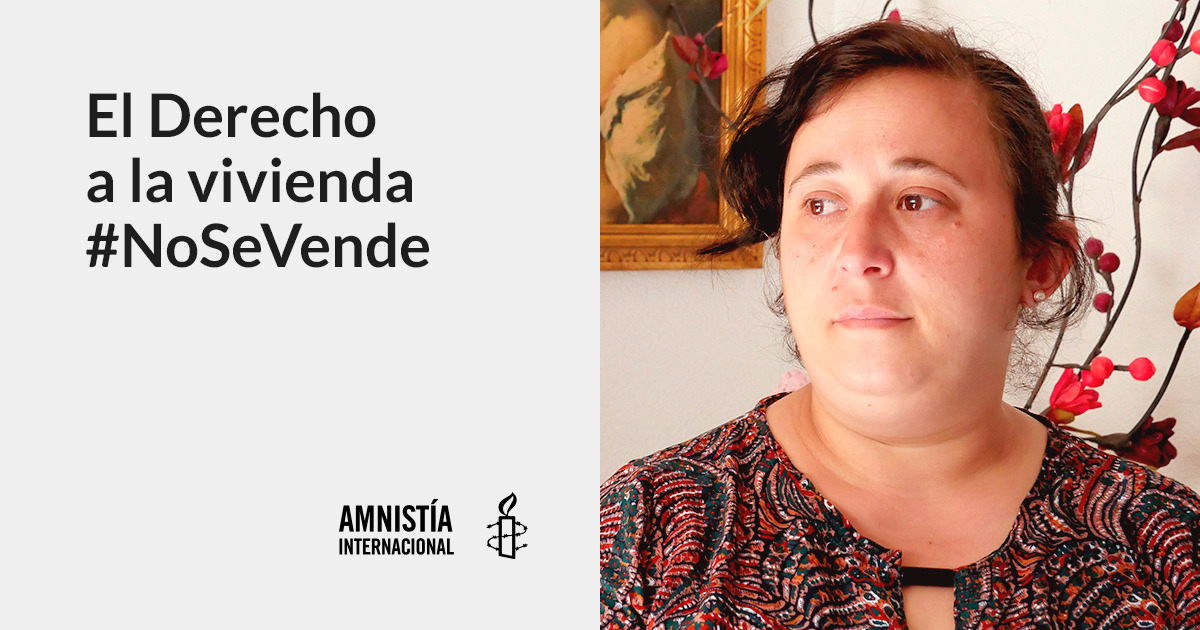
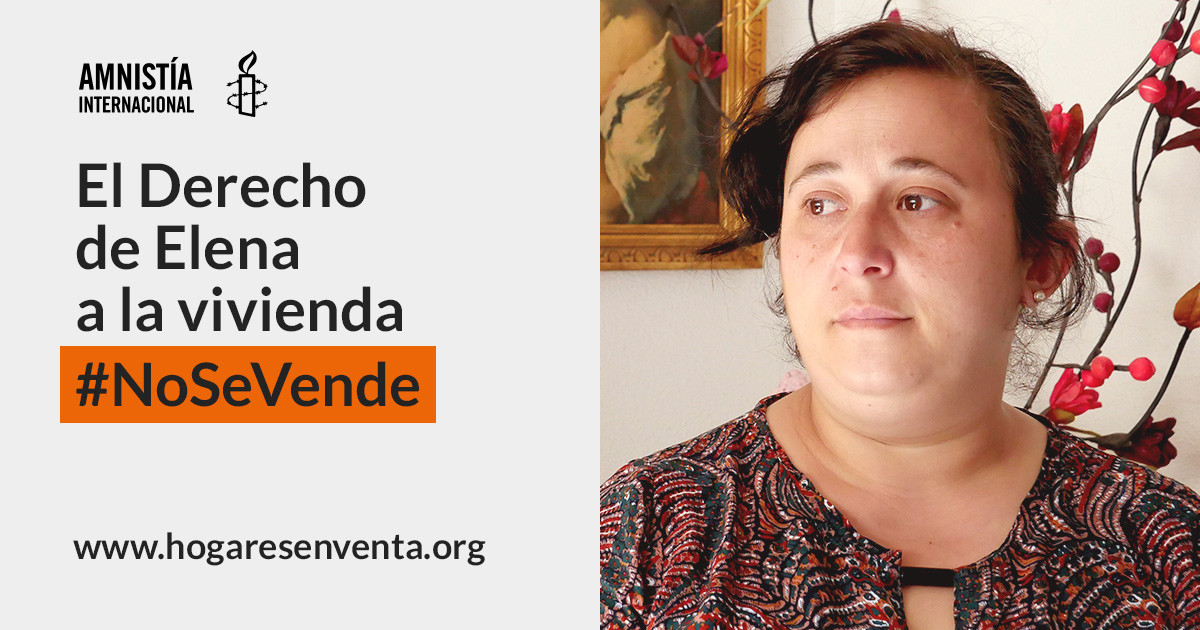
Contenidos Redes Sociales
Textos, descripciones e imágenes

diff --git a/lucia.php b/lucia.php
@@ -6,7 +6,7 @@
 	<base href="<?php echo URL_SITE; ?>">
 	<meta name="viewport" content="user-scalable=no, width=device-width, initial-scale=1.0" />
 	<title>El Derecho a la Vivienda #NoSeVende - Amnistía Internacional</title>
-    <meta name="description" content="Firma para que se respete el  derecho a una vivienda de Lucía. Su vivienda social fue vendida a un fondo privado y ahora no puede pagarla. ">
+    <meta name="description" content="Firma para que se proteja el  derecho de Lucía a una vivienda. Su vivienda social fue vendida a un fondo de inversión y ahora no puede pagarla.">
 	<link rel="canonical" href="<?php echo URL_SITE; ?>lucia/" />
     <link rel="image_src" href="<?php echo URL_SITE; ?>images/compartir-tw-caso-lucia.png" />
     <link rel="icon" href="favicon.ico?v=4" type="image/x-icon" />
@@ -18,7 +18,7 @@
     <meta property="og:type" content="website" />
     <meta property="og:locale" content="es_ES" />
     <meta property="og:title" content="Su derecho #NoSeVende – Amnistía Internacional" />
-    <meta property="og:description" content="Firma para que se respete el  derecho a una vivienda de Lucía. Su vivienda social fue vendida a un fondo privado y ahora no puede pagarla." />
+    <meta property="og:description" content="Firma para que se proteja el  derecho de Lucía a una vivienda. Su vivienda social fue vendida a un fondo de inversión y ahora no puede pagarla." />
     <meta property="og:site_name" content="Amnistía Internacional" />
     <meta property="og:image" content="<?php echo URL_SITE; ?>images/compartir-fb-caso-lucia.jpg" />
     <meta property="og:image:width" content="1200" />
@@ -30,7 +30,7 @@
     <meta name="twitter:site" content="@amnistiaespana">
     <meta name="twitter:creator" content="@amnistiaespana">
     <meta name="twitter:title" content="Su derecho #NoSeVende – Amnistía Internacional" />
-    <meta name="twitter:description" content="Firma para que se respete el  derecho a una vivienda de Lucía. Su vivienda social fue vendida a un fondo privado y ahora no puede pagarla." />
+    <meta name="twitter:description" content="Firma para que se proteja el  derecho de Lucía a una vivienda. Su vivienda social fue vendida a un fondo de inversión y ahora no puede pagarla." />
     <meta name="twitter:image" content="<?php echo URL_SITE; ?>images/compartir-tw-caso-lucia.png" />
     <meta name="twitter:image:width" content="1024" />
     <meta name="twitter:image:height" content="512" />
@@ -108,13 +108,13 @@ if($isMobile) {
 			<div class="rrss"><!--redes header-->
 				<ul class="clearfix">
 					<li><b>Comparte:</b></li>
-					<li><a data-e_c="hogaresenventa" data-e_a="lucía comp TW" data-e_l="lucía comp TW" data-shareurl="<?php echo SL_LUCIA_TW; ?>" data-texto="El derecho a la vivienda de Lucía #NoSeVende. Conoce su historia y firma para que le den una solución" class="fa fa-twitter twitter-share send-piwik-event" title="Compartir en Twitter" href="#"></a></li>
+					<li><a data-e_c="hogaresenventa" data-e_a="lucía comp TW" data-e_l="lucía comp TW" data-shareurl="<?php echo SL_LUCIA_TW; ?>" data-texto="El derecho a la vivienda de Lucía #NoSeVende. Conoce su historia y firma para que no la echen de su casa" class="fa fa-twitter twitter-share send-piwik-event" title="Compartir en Twitter" href="#"></a></li>
 
-					<li><a data-e_c="hogaresenventa" data-e_a="lucía comp FB" data-e_l="lucía comp FB" data-shareurl="<?php echo URL_SITE . 'lucia/' . TRACK_FB_UTM; ?>" data-title="Su derecho #NoSeVende – Amnistía Internacional" data-texto="Firma para que se respete el  derecho a una vivienda de Lucía. Su vivienda social fue vendida a un fondo privado y ahora no puede pagarla." data-imagen="<?php echo URL_SITE; ?>images/compartir-fb-caso-lucia.jpg" data-caption="Amnistía Internacional" class="fa fa-facebook facebook-share send-piwik-event" href="#" title="Compartir en Facebook"></a></li>
+					<li><a data-e_c="hogaresenventa" data-e_a="lucía comp FB" data-e_l="lucía comp FB" data-shareurl="<?php echo URL_SITE . 'lucia/' . TRACK_FB_UTM; ?>" data-title="Su derecho #NoSeVende – Amnistía Internacional" data-texto="Firma para que se proteja el  derecho de Lucía a una vivienda. Su vivienda social fue vendida a un fondo de inversión y ahora no puede pagarla." data-imagen="<?php echo URL_SITE; ?>images/compartir-fb-caso-lucia.jpg" data-caption="Amnistía Internacional" class="fa fa-facebook facebook-share send-piwik-event" href="#" title="Compartir en Facebook"></a></li>
 <?php
 if($isMobile) {
 ?>
-                	<!--<li><a data-e_c="hogaresenventa" data-e_a="lucía comp WH" data-e_l="lucía comp WH" class="fa fa-whatsapp send-piwik-event" title="Compartir en Whatsapp" data-href="<?php echo URL_SITE . TRACK_WH_UTM; ?>" data-action="share/whatsapp/share" href="whatsapp://send?text=<?=urlencode('El derecho a la vivienda de Lucía #NoSeVende. Conoce su historia y firma para que le den una solución ' . SL_LUCIA_WH )?>"></a></li>-->
+                	<li><a data-e_c="hogaresenventa" data-e_a="lucía comp WH" data-e_l="lucía comp WH" class="fa fa-whatsapp send-piwik-event" title="Compartir en Whatsapp" data-href="<?php echo SL_LUCIA_WH; ?>" data-action="share/whatsapp/share" href="whatsapp://send?text=<?=urlencode('El derecho a la vivienda de Lucía #NoSeVende. Conoce su historia y firma para que no la echen de su casa ' . SL_LUCIA_WH )?>"></a></li>
 <?php
 }
 ?>
@@ -161,13 +161,13 @@ if($isMobile) {
 
 						<ul class="rrss-interior clearfix">
 							<li><b>Comparte:</b></li><!--redes caso interior-->
-							<li><a data-e_c="hogaresenventa" data-e_a="lucía comp TW" data-e_l="lucía comp TW" data-shareurl="<?php echo SL_LUCIA_TW; ?>" data-texto="El derecho a la vivienda de Lucía #NoSeVende. Conoce su historia y firma para que le den una solución" class="fa fa-twitter twitter-share send-piwik-event" title="Compartir en Twitter" href="#"></a></li>
+							<li><a data-e_c="hogaresenventa" data-e_a="lucía comp TW" data-e_l="lucía comp TW" data-shareurl="<?php echo SL_LUCIA_TW; ?>" data-texto="El derecho a la vivienda de Lucía #NoSeVende. Conoce su historia y firma para que no la echen de su casa" class="fa fa-twitter twitter-share send-piwik-event" title="Compartir en Twitter" href="#"></a></li>
 
-							<li><a data-e_c="hogaresenventa" data-e_a="lucía comp FB" data-e_l="lucía comp FB" data-shareurl="<?php echo URL_SITE . 'lucia/' . TRACK_FB_UTM; ?>" data-title="Su derecho #NoSeVende – Amnistía Internacional" data-texto="Firma para que se respete el  derecho a una vivienda de Lucía. Su vivienda social fue vendida a un fondo privado y ahora no puede pagarla." data-imagen="<?php echo URL_SITE; ?>images/compartir-fb-caso-lucia.jpg" data-caption="Amnistía Internacional" class="fa fa-facebook facebook-share send-piwik-event" href="#" title="Compartir en Facebook"></a></li>
+							<li><a data-e_c="hogaresenventa" data-e_a="lucía comp FB" data-e_l="lucía comp FB" data-shareurl="<?php echo URL_SITE . 'lucia/' . TRACK_FB_UTM; ?>" data-title="Su derecho #NoSeVende – Amnistía Internacional" data-texto="Firma para que se proteja el  derecho de Lucía a una vivienda. Su vivienda social fue vendida a un fondo de inversión y ahora no puede pagarla." data-imagen="<?php echo URL_SITE; ?>images/compartir-fb-caso-lucia.jpg" data-caption="Amnistía Internacional" class="fa fa-facebook facebook-share send-piwik-event" href="#" title="Compartir en Facebook"></a></li>
 <?php
 if($isMobile) {
 ?>
-            				<!--<li><a data-e_c="hogaresenventa" data-e_a="lucía comp WH" data-e_l="lucía comp WH" class="fa fa-whatsapp send-piwik-event" title="Compartir en Whatsapp" data-href="<?php echo SL_ELENA_WH; ?>" data-action="share/whatsapp/share" href="whatsapp://send?text=<?=urlencode('El derecho a la vivienda de Lucía #NoSeVende. Conoce su historia y firma para que le den una solución '. SL_LUCIA_WH)?>"></a></li>-->
+            				<li><a data-e_c="hogaresenventa" data-e_a="lucía comp WH" data-e_l="lucía comp WH" class="fa fa-whatsapp send-piwik-event" title="Compartir en Whatsapp" data-href="<?php echo SL_LUCIA_WH; ?>" data-action="share/whatsapp/share" href="whatsapp://send?text=<?=urlencode('El derecho a la vivienda de Lucía #NoSeVende. Conoce su historia y firma para que no la echen de su casa '. SL_LUCIA_WH)?>"></a></li>
 <?php
 }
 ?>

diff --git a/gracias.php b/gracias.php
@@ -12,7 +12,7 @@ include_once ("includes/config.php");
 	<base href="<?php echo URL_SITE; ?>">
 	<meta name="viewport" content="user-scalable=no, width=device-width, initial-scale=1.0" />
 	<title>El Derecho a la Vivienda #NoSeVende - Amnistía Internaciona</title>
-    <meta name="description" content="En 2012 se vendieron en Madrid viviendas sociales con gente dentro a fondos de inversión. Firma para que ninguna familia pierda su hogar.">
+    <meta name="description" content="Entre 2011 y 2013 se vendieron en Madrid viviendas sociales habitadas a fondos de inversión. Firma para que ninguna familia pierda su hogar.">
 	<link rel="canonical" href="<?php echo URL_SITE; ?>gracias/" />
     <link rel="image_src" href="<?php echo URL_SITE; ?>images/compartir-tw.png" />
     <link rel="icon" href="favicon.ico?v=4" type="image/x-icon" />
@@ -24,7 +24,7 @@ include_once ("includes/config.php");
     <meta property="og:type" content="website" />
     <meta property="og:locale" content="es_ES" />
     <meta property="og:title" content="El Derecho a la Vivienda #NoSeVende" />
-    <meta property="og:description" content="En 2012 se vendieron en Madrid viviendas sociales con gente dentro a fondos de inversión. Firma para que ninguna familia pierda su hogar." />
+    <meta property="og:description" content="Entre 2011 y 2013 se vendieron en Madrid viviendas sociales habitadas a fondos de inversión. Firma para que ninguna familia pierda su hogar." />
     <meta property="og:site_name" content="Amnistía Internacional" />
     <meta property="og:image" content="<?php echo URL_SITE; ?>images/compartir-fb.png" />
     <meta property="og:image:width" content="1200" />
@@ -36,7 +36,7 @@ include_once ("includes/config.php");
     <meta name="twitter:site" content="@amnistiaespana">
     <meta name="twitter:creator" content="@amnistiaespana">
     <meta name="twitter:title" content="El Derecho a la Vivienda #NoSeVende" />
-    <meta name="twitter:description" content="En 2012 se vendieron en Madrid viviendas sociales con gente dentro a fondos de inversión. Firma para que ninguna familia pierda su hogar." />
+    <meta name="twitter:description" content="Entre 2011 y 2013 se vendieron en Madrid viviendas sociales habitadas a fondos de inversión. Firma para que ninguna familia pierda su hogar." />
     <meta name="twitter:image" content="<?php echo URL_SITE; ?>images/compartir-tw.png" />
     <meta name="twitter:image:width" content="1024" />
     <meta name="twitter:image:height" content="512" />
@@ -171,11 +171,11 @@ var google_remarketing_only = false;
 				<ul class="clearfix">
 					<li><b>Comparte:</b></li>
 					<li><a data-e_c="hogaresenventa" data-e_a="gracias comp TW" data-e_l="gracias comp TW" data-shareurl="<?php echo SL_HOME_TW; ?>" data-texto="El derecho a la vivienda #NoSeVende. Firma para que ninguna familia pierda su hogar" class="fa fa-twitter twitter-share send-piwik-event" title="Compartir en Twitter" href="#"></a></li>
-					<li><a data-e_c="hogaresenventa" data-e_a="gracias comp FB" data-e_l="gracias comp FB" data-shareurl="<?php echo URL_SITE . TRACK_FB_UTM; ?>" data-title="El Derecho a la Vivienda #NoSeVende" data-texto="En 2012 se vendieron en Madrid viviendas sociales con gente dentro a fondos de inversión. Firma para que ninguna familia pierda su hogar." data-imagen="<?php echo URL_SITE; ?>images/compartir-fb.png" data-caption="Amnistía Internacional" class="fa fa-facebook facebook-share send-piwik-event" href="#" title="Compartir en Facebook"></a></li>
+					<li><a data-e_c="hogaresenventa" data-e_a="gracias comp FB" data-e_l="gracias comp FB" data-shareurl="<?php echo URL_SITE . TRACK_FB_UTM; ?>" data-title="El Derecho a la Vivienda #NoSeVende" data-texto="Entre 2011 y 2013 se vendieron en Madrid viviendas sociales habitadas a fondos de inversión. Firma para que ninguna familia pierda su hogar." data-imagen="<?php echo URL_SITE; ?>images/compartir-fb.png" data-caption="Amnistía Internacional" class="fa fa-facebook facebook-share send-piwik-event" href="#" title="Compartir en Facebook"></a></li>
 <?php
 if($isMobile) {
 ?>
-                	<!--<li><a data-e_c="hogaresenventa" data-e_a="gracias comp WH" data-e_l="gracias comp WH" class="fa fa-whatsapp send-piwik-event" title="Compartir en Whatsapp" data-href="<?php echo SL_HOME_WH; ?>" data-action="share/whatsapp/share" href="whatsapp://send?text=<?=urlencode('El derecho a la vivienda #NoSeVende. Firma para que ninguna familia pierda su hogar ' . SL_HOME_WH)?>"></a></li>-->
+                	<li><a data-e_c="hogaresenventa" data-e_a="gracias comp WH" data-e_l="gracias comp WH" class="fa fa-whatsapp send-piwik-event" title="Compartir en Whatsapp" data-href="<?php echo SL_HOME_WH; ?>" data-action="share/whatsapp/share" href="whatsapp://send?text=<?=urlencode('El derecho a la vivienda #NoSeVende. Firma para que ninguna familia pierda su hogar ' . SL_HOME_WH)?>"></a></li>
 <?php
 }
 ?>
@@ -221,13 +221,13 @@ if($_GET['error_form'] == 1){
 
 								<a data-e_c="hogaresenventa" data-e_a="gracias comp TW" data-e_l="gracias comp TW" data-shareurl="<?php echo SL_HOME_TW; ?>" data-texto="El derecho a la vivienda #NoSeVende. Firma para que ninguna familia pierda su hogar" class="btn-big-general white-orange twitter-share send-piwik-event" title="Compartir en Twitter" href="#"><b>Compartir en Twitter</b></a>
 
-								<a data-e_c="hogaresenventa" data-e_a="gracias comp FB" data-e_l="gracias comp FB" data-shareurl="<?php echo URL_SITE . TRACK_FB_UTM; ?>" data-title="El Derecho a la Vivienda #NoSeVende" data-texto="En 2012 se vendieron en Madrid viviendas sociales con gente dentro a fondos de inversión. Firma para que ninguna familia pierda su hogar." data-imagen="<?php echo URL_SITE; ?>images/compartir-fb.png" data-caption="Amnistía Internacional" class="btn-big-general white-orange facebook-share send-piwik-event" href="#" title="Compartir en Facebook"><b>Compartir en Facebook</b></a>
+								<a data-e_c="hogaresenventa" data-e_a="gracias comp FB" data-e_l="gracias comp FB" data-shareurl="<?php echo URL_SITE . TRACK_FB_UTM; ?>" data-title="El Derecho a la Vivienda #NoSeVende" data-texto="Entre 2011 y 2013 se vendieron en Madrid viviendas sociales habitadas a fondos de inversión. Firma para que ninguna familia pierda su hogar." data-imagen="<?php echo URL_SITE; ?>images/compartir-fb.png" data-caption="Amnistía Internacional" class="btn-big-general white-orange facebook-share send-piwik-event" href="#" title="Compartir en Facebook"><b>Compartir en Facebook</b></a>
 
 
 <?php
 	if($isMobile) {
 ?>
-								<!--<a data-e_c="hogaresenventa" data-e_a="gracias comp WH" data-e_l="gracias comp WH" class="btn-big-general white-orange send-piwik-event" data-href="<?php echo SL_HOME_WH; ?>" data-action="share/whatsapp/share" href="whatsapp://send?text=<?=urlencode('El derecho a la vivienda #NoSeVende. Firma para que ninguna familia pierda su hogar ' . SL_HOME_WH)?>" title="Compartir en Whatsapp"><b>Compartir en Whatsapp</b></a>-->
+								<a data-e_c="hogaresenventa" data-e_a="gracias comp WH" data-e_l="gracias comp WH" class="btn-big-general white-orange send-piwik-event" data-href="<?php echo SL_HOME_WH; ?>" data-action="share/whatsapp/share" href="whatsapp://send?text=<?=urlencode('El derecho a la vivienda #NoSeVende. Firma para que ninguna familia pierda su hogar ' . SL_HOME_WH)?>" title="Compartir en Whatsapp"><b>Compartir en Whatsapp</b></a>
 
 <?php
 	}

diff --git a/elena.php b/elena.php
@@ -6,7 +6,7 @@
 	<base href="<?php echo URL_SITE; ?>">
 	<meta name="viewport" content="user-scalable=no, width=device-width, initial-scale=1.0" />
 	<title>El Derecho a la Vivienda #NoSeVende - Amnistía Internacional</title>
-    <meta name="description" content="Firma para que se respete el  derecho a una vivienda de Elena. Su vivienda social fue vendida a un fondo privado y la desahuciaron. ">
+    <meta name="description" content="Firma para que se proteja el  derecho de Elena a una vivienda. Su vivienda social fue vendida a un fondo de inversión y la desahuciaron.">
 	<link rel="canonical" href="<?php echo URL_SITE; ?>elena/" />
     <link rel="image_src" href="<?php echo URL_SITE; ?>images/compartir-tw-caso-elena.png" />
     <link rel="icon" href="favicon.ico?v=4" type="image/x-icon" />
@@ -18,7 +18,7 @@
     <meta property="og:type" content="website" />
     <meta property="og:locale" content="es_ES" />
     <meta property="og:title" content="Su derecho #NoSeVende – Amnistía Internacional" />
-    <meta property="og:description" content="Firma para que se respete el  derecho a una vivienda de Elena. Su vivienda social fue vendida a un fondo privado y la desahuciaron." />
+    <meta property="og:description" content="Firma para que se proteja el  derecho de Elena a una vivienda. Su vivienda social fue vendida a un fondo de inversión y la desahuciaron." />
     <meta property="og:site_name" content="Amnistía Internacional" />
     <meta property="og:image" content="<?php echo URL_SITE; ?>images/compartir-fb-caso-elena.jpg" />
     <meta property="og:image:width" content="1200" />
@@ -30,7 +30,7 @@
     <meta name="twitter:site" content="@amnistiaespana">
     <meta name="twitter:creator" content="@amnistiaespana">
     <meta name="twitter:title" content="Su derecho #NoSeVende – Amnistía Internacional" />
-    <meta name="twitter:description" content="Firma para que se respete el  derecho a una vivienda de Elena. Su vivienda social fue vendida a un fondo privado y la desahuciaron." />
+    <meta name="twitter:description" content="Firma para que se proteja el  derecho de Elena a una vivienda. Su vivienda social fue vendida a un fondo de inversión y la desahuciaron." />
     <meta name="twitter:image" content="<?php echo URL_SITE; ?>images/compartir-tw-caso-elena.png" />
     <meta name="twitter:image:width" content="1024" />
     <meta name="twitter:image:height" content="512" />
@@ -128,11 +128,11 @@ if($isMobile) {
 					<li><b>Comparte:</b></li><!--redes header-->
 					<li><a data-e_c="hogaresenventa" data-e_a="elena comp elena TW" data-e_l="elena comp TW" data-shareurl="<?php echo SL_ELENA_TW; ?>" data-texto="El derecho a la vivienda de Elena #NoSeVende. Conoce su historia y firma para que le den una solución" class="fa fa-twitter twitter-share send-piwik-event" title="Compartir en Twitter" href="#"></a></li>
 
-					<li><a data-e_c="hogaresenventa" data-e_a="elena comp FB" data-e_l="elena comp FB" data-shareurl="<?php echo URL_SITE . 'elena/' . TRACK_FB_UTM; ?>" data-title="Su derecho #NoSeVende – Amnistía Internacional" data-texto="Firma para que se respete el  derecho a una vivienda de Elena. Su vivienda social fue vendida a un fondo privado y la desahuciaron." data-imagen="<?php echo URL_SITE; ?>images/compartir-fb-caso-elena.jpg" data-caption="Amnistía Internacional" class="fa fa-facebook facebook-share send-piwik-event" href="#" title="Compartir en Facebook"></a></li>
+					<li><a data-e_c="hogaresenventa" data-e_a="elena comp FB" data-e_l="elena comp FB" data-shareurl="<?php echo URL_SITE . 'elena/' . TRACK_FB_UTM; ?>" data-title="Su derecho #NoSeVende – Amnistía Internacional" data-texto="Firma para que se proteja el  derecho de Elena a una vivienda. Su vivienda social fue vendida a un fondo de inversión y la desahuciaron." data-imagen="<?php echo URL_SITE; ?>images/compartir-fb-caso-elena.jpg" data-caption="Amnistía Internacional" class="fa fa-facebook facebook-share send-piwik-event" href="#" title="Compartir en Facebook"></a></li>
 <?php
 if($isMobile) {
 ?>
-                	<!--<li><a data-e_c="hogaresenventa" data-e_a="elena comp WH" data-e_l="elena comp WH" class="fa fa-whatsapp send-piwik-event" title="Compartir en Whatsapp" data-href="<?php echo SL_ELENA_WH; ?>" data-action="share/whatsapp/share" href="whatsapp://send?text=<?=urlencode('El derecho a la vivienda de Elena #NoSeVende. Conoce su historia y firma para que le den una solución '. SL_ELENA_WH)?>"></a></li>-->
+                	<li><a data-e_c="hogaresenventa" data-e_a="elena comp WH" data-e_l="elena comp WH" class="fa fa-whatsapp send-piwik-event" title="Compartir en Whatsapp" data-href="<?php echo SL_ELENA_WH; ?>" data-action="share/whatsapp/share" href="whatsapp://send?text=<?=urlencode('El derecho a la vivienda de Elena #NoSeVende. Conoce su historia y firma para que le den una solución '. SL_ELENA_WH)?>"></a></li>
 <?php
 }
 ?>
@@ -186,11 +186,11 @@ if($isMobile) {
 							<li><b>Comparte:</b></li><!--redes caso interior-->
 							<li><a data-e_c="hogaresenventa" data-e_a="elena comp TW" data-e_l="elena comp TW" data-shareurl="<?php echo SL_ELENA_TW; ?>" data-texto="El derecho a la vivienda de Elena #NoSeVende. Conoce su historia y firma para que le den una solución" class="fa fa-twitter twitter-share send-piwik-event" title="Compartir en Twitter" href="#"></a></li>
 
-							<li><a data-e_c="hogaresenventa" data-e_a="elena comp FB" data-e_l="elena comp FB" data-shareurl="<?php echo URL_SITE . 'elena/' . TRACK_FB_UTM; ?>" data-title="Su derecho #NoSeVende – Amnistía Internacional" data-texto="Firma para que se respete el  derecho a una vivienda de Elena. Su vivienda social fue vendida a un fondo privado y la desahuciaron." data-imagen="<?php echo URL_SITE; ?>images/compartir-fb-caso-elena.jpg" data-caption="Amnistía Internacional" class="fa fa-facebook facebook-share send-piwik-event" href="#" title="Compartir en Facebook"></a></li>
+							<li><a data-e_c="hogaresenventa" data-e_a="elena comp FB" data-e_l="elena comp FB" data-shareurl="<?php echo URL_SITE . 'elena/' . TRACK_FB_UTM; ?>" data-title="Su derecho #NoSeVende – Amnistía Internacional" data-texto="Firma para que se proteja el  derecho de Elena a una vivienda. Su vivienda social fue vendida a un fondo de inversión y la desahuciaron." data-imagen="<?php echo URL_SITE; ?>images/compartir-fb-caso-elena.jpg" data-caption="Amnistía Internacional" class="fa fa-facebook facebook-share send-piwik-event" href="#" title="Compartir en Facebook"></a></li>
 	<?php
 	if($isMobile) {
 	?>
-	        				<!--<li><a data-e_c="hogaresenventa" data-e_a="elena comp WH" data-e_l="elena comp wh" class="fa fa-whatsapp send-piwik-event" title="Compartir en Whatsapp" data-href="<?php echo SL_ELENA_WH; ?>" data-action="share/whatsapp/share" href="whatsapp://send?text=<?=urlencode('El derecho a la vivienda de Elena #NoSeVende. Conoce su historia y firma para que le den una solución '. SL_ELENA_WH)?>"></a></li>-->
+	        				<li><a data-e_c="hogaresenventa" data-e_a="elena comp WH" data-e_l="elena comp wh" class="fa fa-whatsapp send-piwik-event" title="Compartir en Whatsapp" data-href="<?php echo SL_ELENA_WH; ?>" data-action="share/whatsapp/share" href="whatsapp://send?text=<?=urlencode('El derecho a la vivienda de Elena #NoSeVende. Conoce su historia y firma para que le den una solución '. SL_ELENA_WH)?>"></a></li>
 	<?php
 	}
 	?>

diff --git a/index.php b/index.php
@@ -6,7 +6,7 @@
 	<base href="<?php echo URL_SITE; ?>">
 	<meta name="viewport" content="user-scalable=no, width=device-width, initial-scale=1.0" />
 	<title>El Derecho a la Vivienda #NoSeVende - Amnistía Internacional</title>
-    <meta name="description" content="En 2012 se vendieron en Madrid viviendas sociales con gente dentro a fondos de inversión. Firma para que ninguna familia pierda su hogar.">
+    <meta name="description" content="Entre 2011 y 2013 se vendieron en Madrid viviendas sociales habitadas a fondos de inversión. Firma para que ninguna familia pierda su hogar.">
 	<link rel="canonical" href="<?php echo URL_SITE; ?>" />
     <link rel="image_src" href="<?php echo URL_SITE; ?>images/compartir-tw.png" />
     <link rel="icon" href="favicon.ico?v=4" type="image/x-icon" />
@@ -18,7 +18,7 @@
     <meta property="og:type" content="website" />
     <meta property="og:locale" content="es_ES" />
     <meta property="og:title" content="El Derecho a la Vivienda #NoSeVende" />
-    <meta property="og:description" content="En 2012 se vendieron en Madrid viviendas sociales con gente dentro a fondos de inversión. Firma para que ninguna familia pierda su hogar." />
+    <meta property="og:description" content="Entre 2011 y 2013 se vendieron en Madrid viviendas sociales habitadas a fondos de inversión. Firma para que ninguna familia pierda su hogar." />
     <meta property="og:site_name" content="Amnistía Internacional" />
     <meta property="og:image" content="<?php echo URL_SITE; ?>images/compartir-fb.jpg" />
     <meta property="og:image:width" content="1200" />
@@ -30,7 +30,7 @@
     <meta name="twitter:site" content="@amnistiaespana">
     <meta name="twitter:creator" content="@amnistiaespana">
     <meta name="twitter:title" content="El Derecho a la Vivienda #NoSeVende" />
-    <meta name="twitter:description" content="En 2012 se vendieron en Madrid viviendas sociales con gente dentro a fondos de inversión. Firma para que ninguna familia pierda su hogar." />
+    <meta name="twitter:description" content="Entre 2011 y 2013 se vendieron en Madrid viviendas sociales habitadas a fondos de inversión. Firma para que ninguna familia pierda su hogar." />
     <meta name="twitter:image" content="<?php echo URL_SITE; ?>images/compartir-tw.png" />
     <meta name="twitter:image:width" content="1024" />
     <meta name="twitter:image:height" content="512" />
@@ -130,11 +130,11 @@ if($isMobile) {
 					<li><b>Comparte:</b></li>
 					<li><a data-e_c="hogaresenventa" data-e_a="home comp TW" data-e_l="home comp TW" data-shareurl="<?php echo SL_HOME_TW; ?>" data-texto="El derecho a la vivienda #NoSeVende. Firma para que ninguna familia pierda su hogar" class="fa fa-twitter twitter-share send-piwik-event" title="Compartir en Twitter" href="#"></a></li>
 
-					<li><a data-e_c="hogaresenventa" data-e_a="home comp FB" data-e_l="home comp FB" data-shareurl="<?php echo URL_SITE . TRACK_FB_UTM; ?>" data-title="El Derecho a la Vivienda #NoSeVende" data-texto="En 2012 se vendieron en Madrid viviendas sociales con gente dentro a fondos de inversión. Firma para que ninguna familia pierda su hogar." data-imagen="<?php echo URL_SITE; ?>images/compartir-fb.jpg" data-caption="Amnistía Internacional" class="fa fa-facebook facebook-share send-piwik-event" href="#" title="Compartir en Facebook"></a></li>
+					<li><a data-e_c="hogaresenventa" data-e_a="home comp FB" data-e_l="home comp FB" data-shareurl="<?php echo URL_SITE . TRACK_FB_UTM; ?>" data-title="El Derecho a la Vivienda #NoSeVende" data-texto="Entre 2011 y 2013 se vendieron en Madrid viviendas sociales habitadas a fondos de inversión. Firma para que ninguna familia pierda su hogar." data-imagen="<?php echo URL_SITE; ?>images/compartir-fb.jpg" data-caption="Amnistía Internacional" class="fa fa-facebook facebook-share send-piwik-event" href="#" title="Compartir en Facebook"></a></li>
 <?php
 if($isMobile) {
 ?>
-                	<!--<li><a data-e_c="hogaresenventa" data-e_a="home comp WH" data-e_l="home comp WH" class="fa fa-whatsapp send-piwik-event" title="Compartir en Whatsapp" data-href="<?php echo SL_HOME_WH; ?>" data-action="share/whatsapp/share" href="whatsapp://send?text=<?=urlencode('El derecho a la vivienda #NoSeVende. Firma para que ninguna familia pierda su hogar ' . SL_HOME_WH)?>"></a></li>-->
+                	<li><a data-e_c="hogaresenventa" data-e_a="home comp WH" data-e_l="home comp WH" class="fa fa-whatsapp send-piwik-event" title="Compartir en Whatsapp" data-href="<?php echo SL_HOME_WH; ?>" data-action="share/whatsapp/share" href="whatsapp://send?text=<?=urlencode('El derecho a la vivienda #NoSeVende. Firma para que ninguna familia pierda su hogar ' . SL_HOME_WH)?>"></a></li>
 <?php
 }
 ?>
